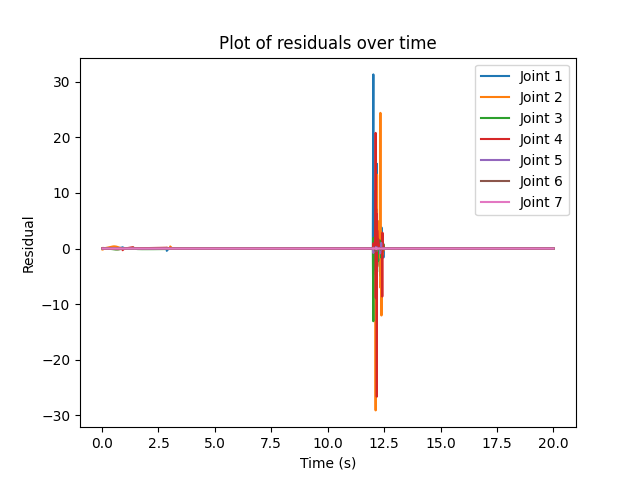
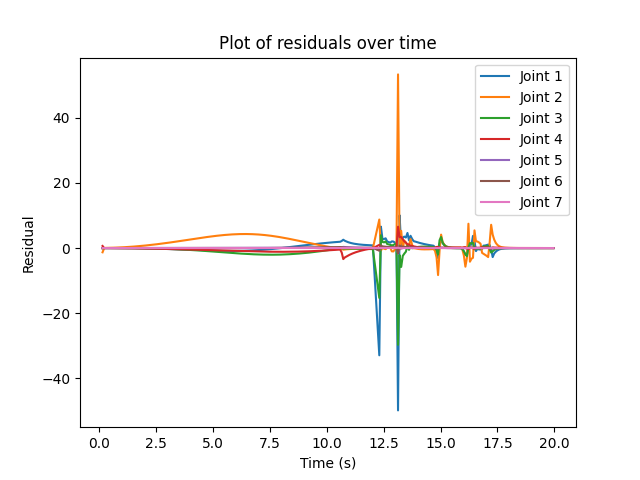
Collision Check

diff --git a/main.py b/main.py
@@ -33,7 +33,7 @@ def main():
     # Get the number of joints
     num_joints = p.getNumJoints(robot)
 
-    duration=5
+    duration=20
     time_step = 1/240
     p.setTimeStep(time_step)
 
@@ -45,12 +45,11 @@ def main():
                                                          7,
                                                          [0.1, 0.1, 0.4],
                                                          targetOrientation=final_orientation,
-                                                         maxNumIterations = 5*simulation_steps
+                                                         maxNumIterations = simulation_steps
                                                          )
     
     print(final_joint_positions)
 
-    duration = 20  # Duration in seconds
     change=[]
     for jointIndex in range(num_joints-2):
         #targetPositions[jointIndex] = jointPositions[jointIndex]  # Set initial target positions to starting configuration
@@ -80,6 +79,7 @@ def main():
     i = -1
     force_not_applied = True
 
+    p.setRealTimeSimulation(0)
     while int(time.time() - startTime) < duration:
         i = i+1
         #print(i)
@@ -214,13 +214,6 @@ def main():
             selected_link_position = link_positions[random_index]
             selected_link_orientation = link_orientations[random_index]
 
-            force = [400, 550, 700]  # Define the force vector (e.g., 10 N in the x-direction)
-            position = [0, 0, 0]  # Define the position of the external force (e.g., at the joint's origin)
-            p.applyExternalForce(robot, random_index, force, position, p.LINK_FRAME)  # Apply the force
-
-            print("FORCE APPLIED AT LINK", random_index)
-            print(f"FORCE APPLIED AT TIME: {current_time}")
-
             # Create a visual marker at the selected point
             marker_size = 0.05
             marker_color = [1, 0, 0, 1]  # Red color
@@ -231,6 +224,10 @@ def main():
                                             baseCollisionShapeIndex=marker_collision,
                                             basePosition=selected_link_position,
                                             baseOrientation=selected_link_orientation)
+            
+            # Run the simulation loop
+            print("FORCE APPLIED AT LINK", random_index)
+            print(f"FORCE APPLIED AT TIME: {current_time}")
 
         ##################### Algorithm ################################
         if i == 0:
@@ -251,16 +248,16 @@ def main():
 
         residuals.append(new_residual)
         threshold = 40
-
-        if any(abs(num) > threshold for num in new_residual):
-            result_index = find_index_closer_to_zero(new_residual)
+        mod_r = np.linalg.norm(new_residual)
+        if mod_r > threshold:
+            result_index = check_r(new_residual)
             if result_index is not None:
-                print(new_residual)
-                print("Index of the high number with subsequent numbers closer to 0:", result_index)
+                print(new_residual,mod_r)
+                print("Link :", result_index+1)
             else:
                 print("No high number found with subsequent numbers closer to 0.")
 
-        print(f"New residual: {new_residual}")
+        #print(f"New residual: {new_residual}")
 
         #####################################################
 
@@ -368,18 +365,17 @@ def plot_3d_graph(title, figure_name, variable_name, variables):
 
     plt.savefig(figure_name+".png")
 
-def find_index_closer_to_zero(numbers):
+def check_r(numbers):
     for i in range(len(numbers) - 1):
         current_value = numbers[i]
         next_values = numbers[i + 1:]
 
-        if all(abs(current_value) <= abs(value) for value in next_values):
+        if all(current_value >= value for value in next_values):
             return i
 
     # If no such index is found, return -1 or raise an exception
     return -1
 
-    return highest_index
 
 
 
